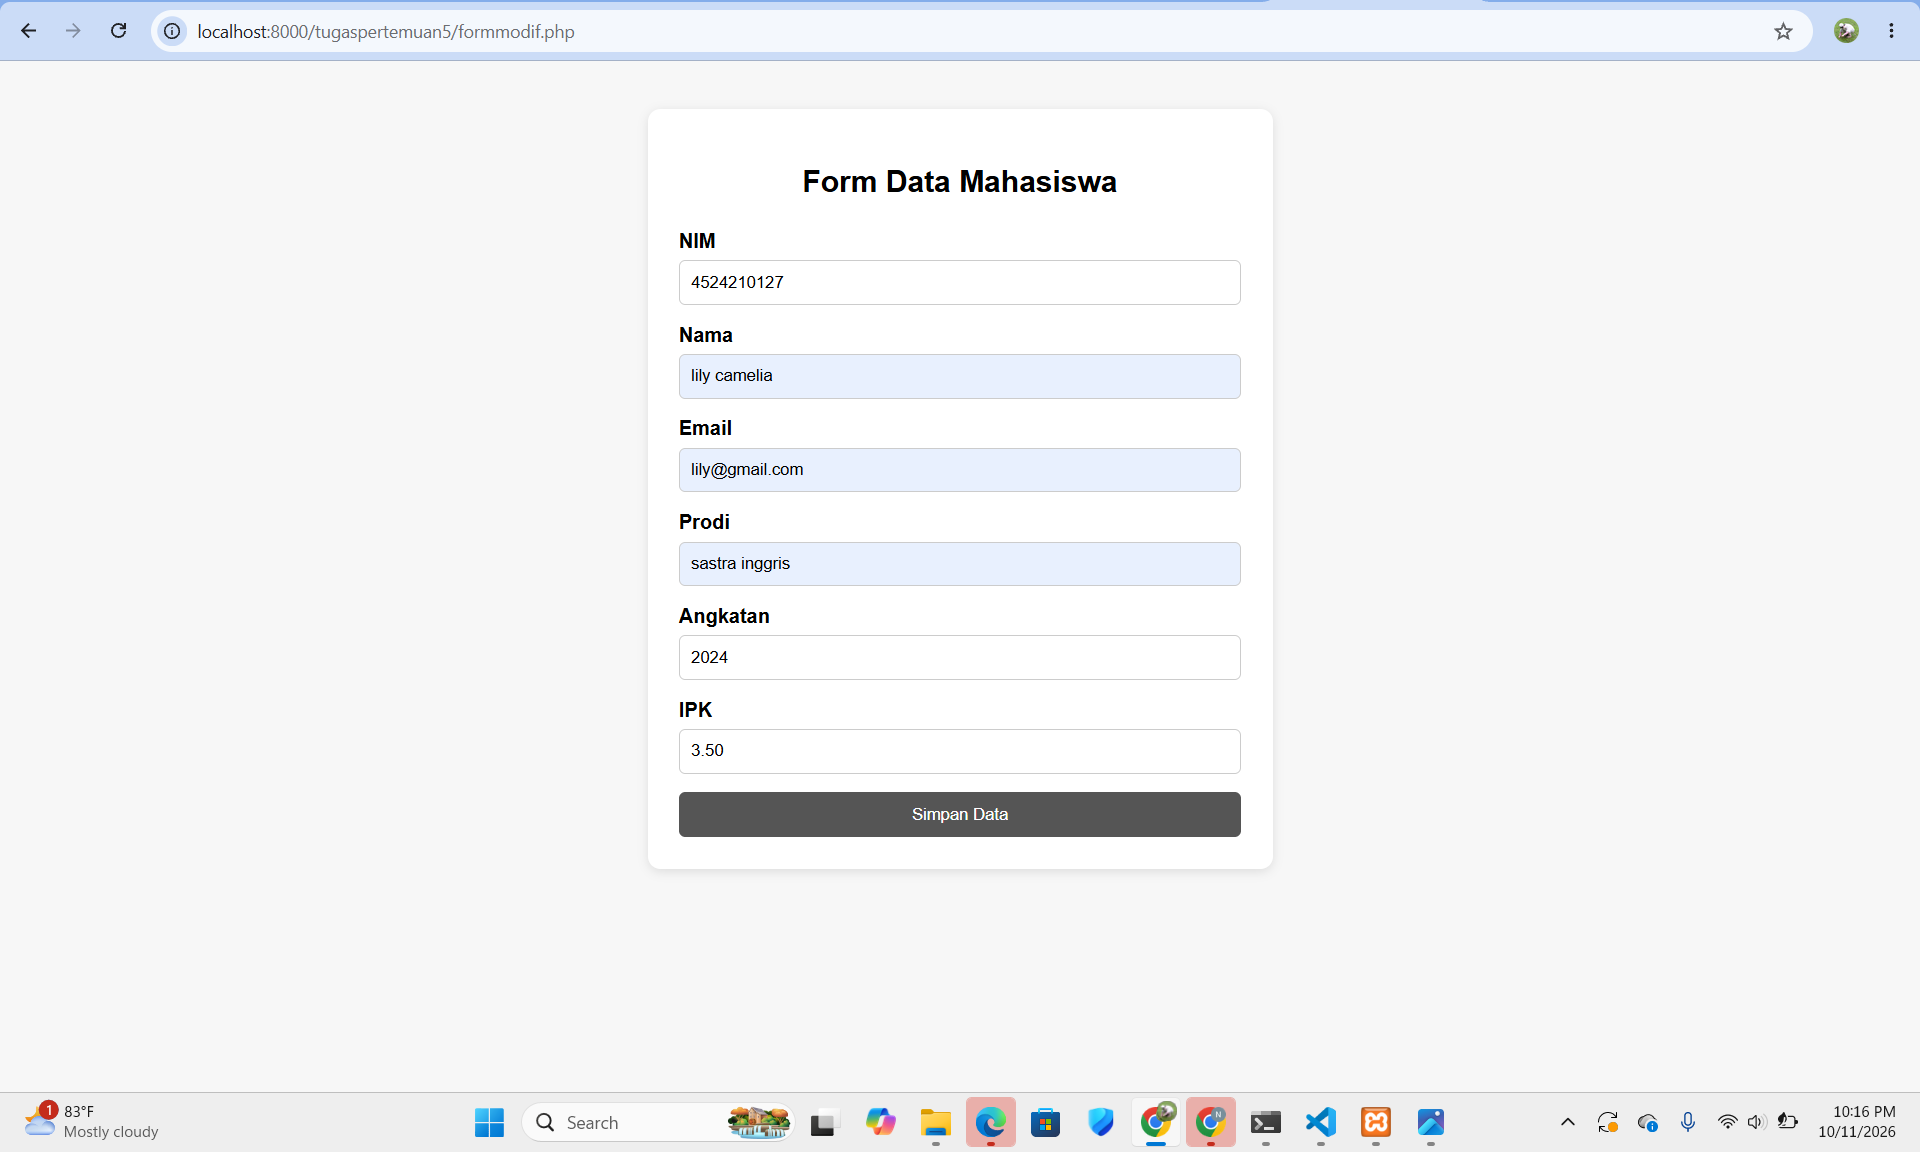
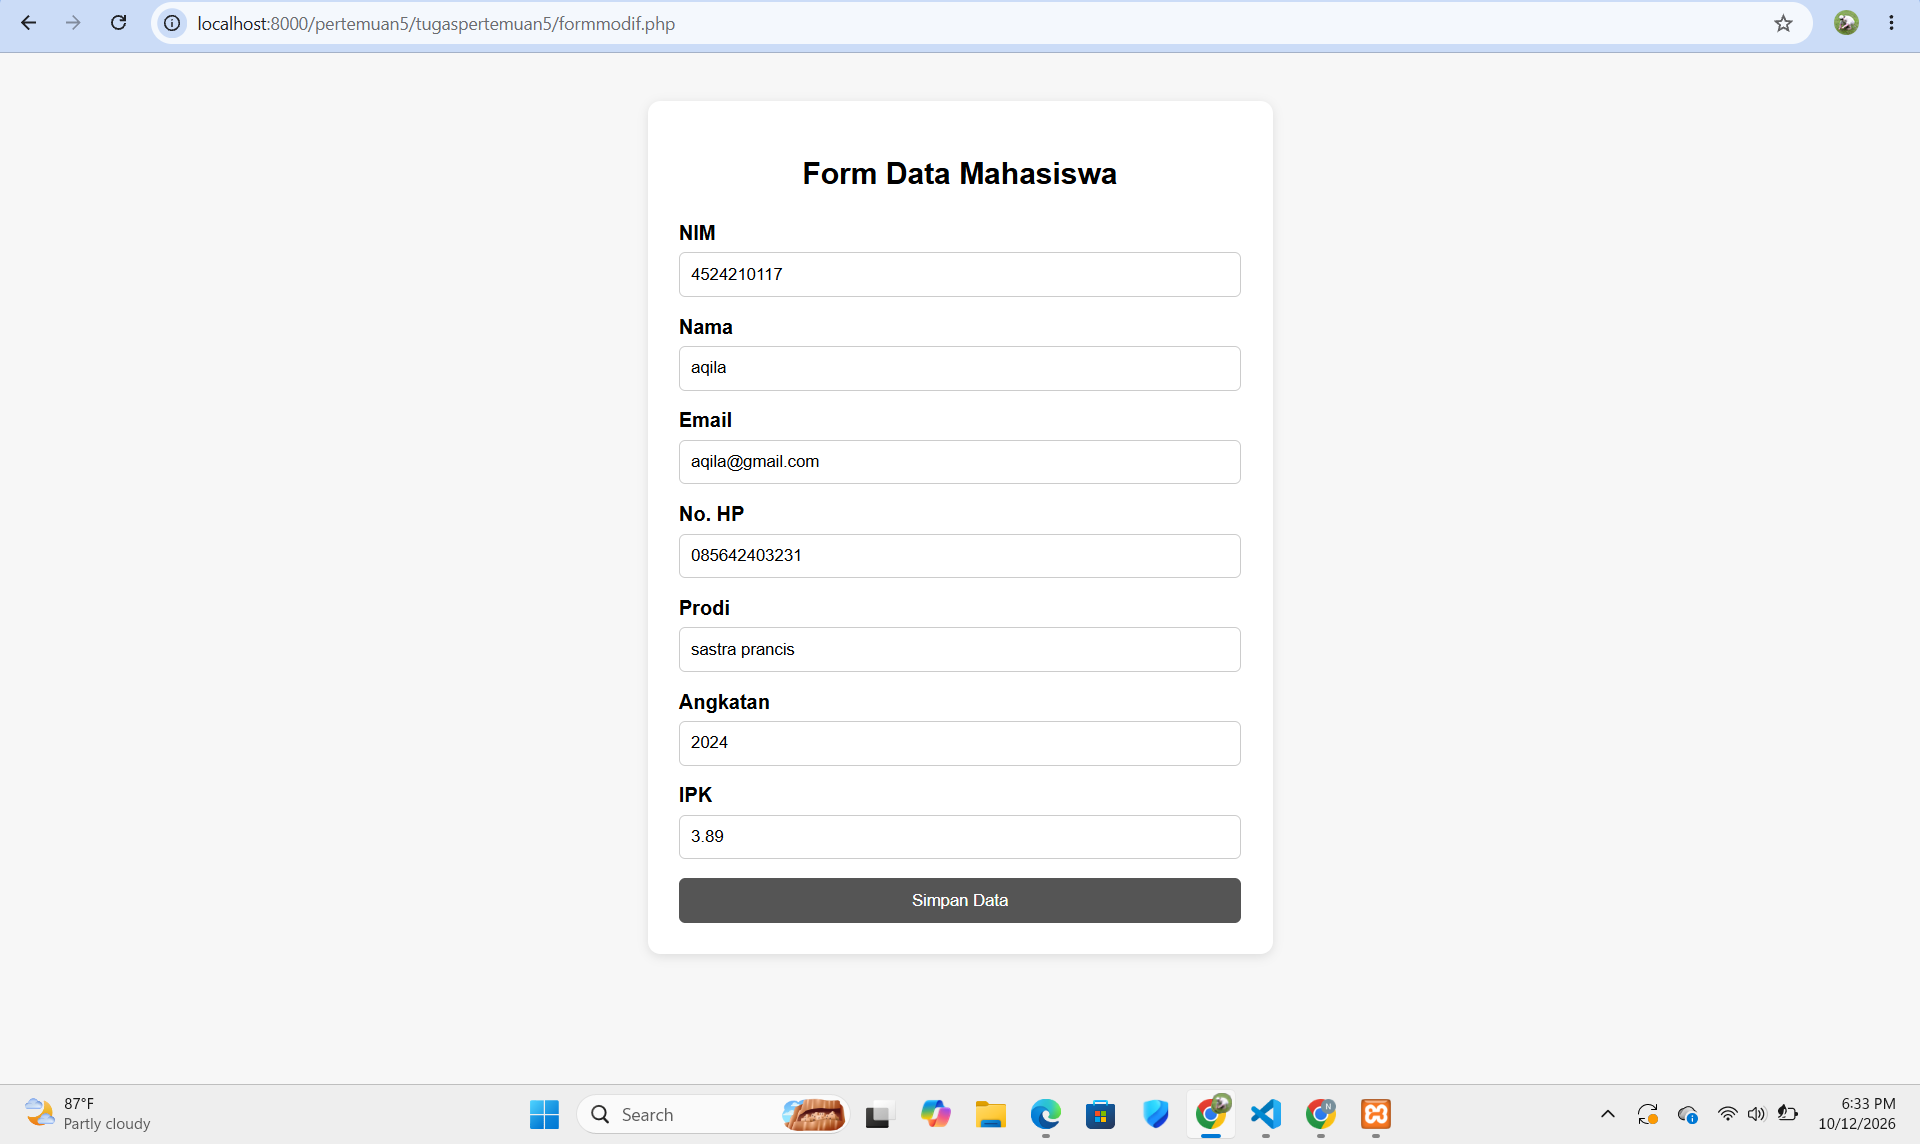
tugas 5 pertemuan 5

diff --git a/pertemuan5/tugaspertemuan5/simpanmodif.php b/pertemuan5/tugaspertemuan5/simpanmodif.php
@@ -1,0 +1,43 @@
+<?php
+
+include "../koneksi.php";
+
+$nim = $_POST['nim'];
+$nama = $_POST['nama'];
+$email = $_POST['email'];
+$no_hp = $_POST['no_hp'];
+$prodi = $_POST['prodi'];
+$angkatan = $_POST['angkatan'];
+$ipk = $_POST['ipk'];
+
+// Validasi IPK
+if ($ipk < 0 || $ipk > 4) {
+    echo "<script>
+            alert('IPK harus berada di antara 0 sampai 4');
+            window.history.back();
+          </script>";
+    exit;
+}
+
+// Menyimpan data ke database
+$query = mysqli_query(
+    $koneksi,
+    "INSERT INTO mahasiswa
+    (nim, nama, email, no_hp, prodi, angkatan, ipk)
+    VALUES
+    ('$nim', '$nama', '$email', '$no_hp', '$prodi', '$angkatan', '$ipk')"
+);
+
+if ($query) {
+    echo "<script>
+            alert('Data mahasiswa berhasil disimpan');
+            window.location.href = 'formmodif.php';
+          </script>";
+} else {
+    echo "<script>
+            alert('Data gagal disimpan');
+            window.history.back();
+          </script>";
+}
+
+?>

diff --git a/pertemuan5/tugaspertemuan5/formmodif.php b/pertemuan5/tugaspertemuan5/formmodif.php
@@ -61,7 +61,7 @@
 
     <h2>Form Data Mahasiswa</h2>
 
-    <form action="../simpan.php" method="post">
+    <form action="simpanmodif.php" method="post">
 
         <label>NIM</label>
         <input type="text" name="nim" required>
@@ -71,6 +71,9 @@
 
         <label>Email</label>
         <input type="email" name="email" required>
+
+        <label>No. HP</label>
+        <input type="text" name="no_hp" minlength="10" maxlength="15" required>
 
         <label>Prodi</label>
         <input type="text" name="prodi" required>

diff --git a/pertemuan5/tugaspertemuan5/README.md b/pertemuan5/tugaspertemuan5/README.md
@@ -5,7 +5,7 @@
 
 ## 1. Modifikasi Program
 
-Pada tugas ini dilakukan modifikasi pada program **form data mahasiswa** dan **tampilan data mahasiswa**. File program asli tetap disimpan di folder `pertemuan5`, sedangkan file hasil modifikasi disimpan di folder `tugaspertemuan5`.
+Pada tugas ini dilakukan modifikasi pada program **form data mahasiswa** dan proses **penyimpanan data mahasiswa**. File program asli tetap disimpan di folder `pertemuan5`, sedangkan file hasil modifikasi disimpan di folder `tugaspertemuan5`.
 
 ### Modifikasi 1 - Form Data Mahasiswa
 
@@ -14,79 +14,108 @@ File `formmodif.php` dibuat dari file `form.php` dengan beberapa perubahan pada 
 Perubahan yang dilakukan:
 
 - Menambahkan tampilan form yang lebih rapi menggunakan CSS sederhana.
+- Menambahkan input **No. HP**.
+- Menambahkan batas input **No. HP minimal 10 dan maksimal 15 karakter**.
 - Menambahkan batas input **angkatan dari 2000 sampai 2100**.
 - Menambahkan batas input **IPK dari 0 sampai 4**.
+- Menggunakan `step="0.01"` pada input IPK agar dapat menerima angka desimal.
 - Mengubah tulisan tombol menjadi **"Simpan Data"**.
-- Mengarahkan form ke file `simpan.php` menggunakan `../simpan.php` karena file modifikasi berada di dalam folder `tugaspertemuan5`.
+- Mengarahkan form ke file `simpanmodif.php` untuk memproses data yang dikirim.
 
-### Modifikasi 2 - Menampilkan Data Mahasiswa
+### Modifikasi 2 - Proses Penyimpanan Data
 
-File `datamodif.php` dibuat dari file `data.php`.
+File `simpanmodif.php` dibuat sebagai modifikasi dari proses penyimpanan pada file `simpan.php`.
 
 Perubahan yang dilakukan:
 
-- Sebelumnya data yang ditampilkan hanya **NIM dan nama**.
-- Setelah dimodifikasi, data yang ditampilkan menjadi **NIM, nama, email, prodi, angkatan, dan IPK**.
-- Data ditampilkan dengan format yang lebih lengkap agar lebih mudah dibaca.
+- Menambahkan proses untuk menerima data **No. HP**.
+- Menambahkan validasi IPK agar nilainya hanya berada pada rentang **0 sampai 4**.
+- Menyesuaikan query `INSERT` agar data No. HP ikut disimpan ke database.
+- Menambahkan pesan berhasil atau gagal setelah proses penyimpanan.
+- Setelah data berhasil disimpan, halaman akan kembali ke `formmodif.php`.
 
 ---
 
 ## 2. Penjelasan 5 Bagian Kode Penting
 
-### 1. Koneksi Database
+### 1. Form Mengirim Data ke `simpanmodif.php`
 
-```php
-include "../koneksi.php";
+```html
+<form action="simpanmodif.php" method="post">
 ```
 
-Kode tersebut digunakan untuk menghubungkan `datamodif.php` dengan file `koneksi.php`.
+Kode tersebut digunakan untuk mengirim data yang diisi pada form ke file `simpanmodif.php`.
 
-Tanda `../` digunakan karena file `datamodif.php` berada satu folder di dalam folder `pertemuan5`, sehingga perlu naik satu tingkat untuk mengakses `koneksi.php`.
-
-### 2. Form Mengirim Data
-
-```php
-<form action="../simpan.php" method="post">
-```
-
-Kode tersebut digunakan untuk mengirim data yang diisi pada form ke file `simpan.php`.
-
-- `action="../simpan.php"` menentukan file yang akan menerima data.
+- `action="simpanmodif.php"` menentukan file yang akan menerima data.
 - `method="post"` digunakan untuk mengirim data menggunakan metode POST.
 
-### 3. Validasi Angkatan
+Karena kedua file berada dalam folder `tugaspertemuan5`, tidak perlu menggunakan `../` pada bagian `action`.
 
-```php
-<input type="number" name="angkatan" min="2000" max="2100" required>
+### 2. Input No. HP
+
+```html
+<label>No. HP</label>
+<input type="text" name="no_hp" minlength="10" maxlength="15" required>
 ```
 
-Kode tersebut digunakan untuk membatasi input angkatan agar berada pada rentang **2000 sampai 2100**.
+Kode tersebut digunakan untuk menambahkan data nomor HP pada form.
 
-Atribut `required` digunakan agar input angkatan tidak boleh dikosongkan.
+- `name="no_hp"` digunakan sebagai nama data yang akan dikirim ke PHP.
+- `minlength="10"` menentukan minimal jumlah karakter.
+- `maxlength="15"` menentukan maksimal jumlah karakter.
+- `required` membuat input tidak boleh dikosongkan.
 
-### 4. Validasi IPK
+### 3. Validasi IPK
 
-```php
+```html
 <input type="number" name="ipk" min="0" max="4" step="0.01" required>
 ```
 
 Kode tersebut digunakan untuk membatasi nilai IPK dari **0 sampai 4**.
 
-Atribut `step="0.01"` memungkinkan pengguna memasukkan nilai IPK dengan angka desimal, misalnya `3.75`.
+Atribut `step="0.01"` memungkinkan pengguna memasukkan nilai IPK dalam bentuk desimal, misalnya `3.75`.
 
-### 5. Menampilkan Data dari Database
+### 4. Validasi IPK pada `simpanmodif.php`
 
 ```php
-while ($data = mysqli_fetch_assoc($query)) {
-    echo "NIM: " . $data['nim'];
-    echo "<br>";
-    echo "Nama: " . $data['nama'];
+if ($ipk < 0 || $ipk > 4) {
+    echo "<script>
+            alert('IPK harus berada di antara 0 sampai 4');
+            window.history.back();
+          </script>";
+    exit;
 }
 ```
 
-Kode tersebut digunakan untuk mengambil data mahasiswa dari hasil query database dan menampilkannya satu per satu.
+Kode tersebut digunakan untuk melakukan pengecekan kembali terhadap nilai IPK sebelum data disimpan ke database.
 
-`mysqli_fetch_assoc()` mengambil setiap baris data dalam bentuk array dengan nama kolom sebagai indeksnya. Perulangan `while` akan terus berjalan selama masih terdapat data yang dapat ditampilkan.
+Jika IPK kurang dari 0 atau lebih dari 4, proses penyimpanan dihentikan dan pengguna mendapatkan pesan bahwa IPK harus berada di antara 0 sampai 4.
+
+### 5. Menyimpan Data ke Database
+
+```php
+$query = mysqli_query(
+    $koneksi,
+    "INSERT INTO mahasiswa
+    (nim, nama, email, no_hp, prodi, angkatan, ipk)
+    VALUES
+    ('$nim', '$nama', '$email', '$no_hp', '$prodi', '$angkatan', '$ipk')"
+);
+```
+
+Kode tersebut digunakan untuk menyimpan data mahasiswa ke tabel `mahasiswa`.
+
+Data yang disimpan meliputi:
+
+- NIM
+- Nama
+- Email
+- No. HP
+- Prodi
+- Angkatan
+- IPK
+
+`mysqli_query()` digunakan untuk menjalankan perintah SQL pada database.
 
 ---
 
@@ -96,9 +125,9 @@ Kode tersebut digunakan untuk mengambil data mahasiswa dari hasil query database
 
 ![Form Sebelum Modifikasi](screenshot/form.png)
 
-### Data Sebelum Modifikasi
+### Proses Penyimpanan Sebelum Modifikasi
 
-![Data Sebelum Modifikasi](screenshot/data.png)
+![Proses Penyimpanan Sebelum Modifikasi](screenshot/simpan.png)
 
 ---
 
@@ -108,9 +137,9 @@ Kode tersebut digunakan untuk mengambil data mahasiswa dari hasil query database
 
 ![Form Setelah Modifikasi](screenshot/formmodif.png)
 
-### Data Setelah Modifikasi
+### Proses Penyimpanan Setelah Modifikasi
 
-![Data Setelah Modifikasi](screenshot/datamodif.png)
+![Proses Penyimpanan Sebelum Modifikasi](screenshot/simpanmodif.png)
 
 > **Catatan:** Nama dan lokasi file screenshot dapat disesuaikan dengan file yang terdapat di repository.
 
@@ -126,9 +155,9 @@ Failed to open stream: No such file or directory
 
 ### Penyebab
 
-Error tersebut terjadi karena file `datamodif.php` berada di dalam folder `tugaspertemuan5`, sedangkan file `koneksi.php` berada di folder `pertemuan5`.
+Error tersebut terjadi karena file `formmodif.php` dan `simpanmodif.php` berada di dalam folder `tugaspertemuan5`, sedangkan file `koneksi.php` berada di folder `pertemuan5`.
 
-Ketika menggunakan:
+Ketika file `simpanmodif.php` menggunakan:
 
 ```php
 include "koneksi.php";
@@ -138,25 +167,18 @@ PHP akan mencari file `koneksi.php` di dalam folder `tugaspertemuan5`, sehingga 
 
 ### Perbaikan
 
-Kode tersebut diubah dari:
-
-```php
-include "koneksi.php";
-```
-
-menjadi:
+Kode tersebut diubah menjadi:
 
 ```php
 include "../koneksi.php";
 ```
 
-Tanda `../` digunakan untuk naik satu folder sehingga PHP dapat menemukan file `koneksi.php` yang berada di folder sebelumnya.
+Tanda `../` digunakan untuk naik satu folder sehingga PHP dapat menemukan file `koneksi.php` yang berada di folder `pertemuan5`.
 
 ---
 
+## 6. Kesimpulan
 
-## 8. Kesimpulan
+Pada tugas ini dilakukan modifikasi terhadap form dan proses penyimpanan data mahasiswa. Modifikasi meliputi perubahan tampilan form, penambahan input No. HP, validasi angkatan dan IPK, serta penambahan validasi IPK pada proses penyimpanan.
 
-Pada tugas ini dilakukan modifikasi terhadap program form dan tampilan data mahasiswa. Modifikasi meliputi perubahan tampilan form, penambahan validasi input angkatan dan IPK, serta penambahan data yang ditampilkan pada halaman data mahasiswa.
-
-Selain itu, tugas ini juga membantu memahami penggunaan `include`, metode `POST`, validasi input HTML, pengambilan data dari database menggunakan `mysqli_fetch_assoc()`, serta penggunaan path relatif seperti `../` pada PHP.
+Selain itu, tugas ini membantu memahami penggunaan `include`, metode `POST`, validasi input HTML, validasi data menggunakan PHP, penggunaan `mysqli_query()` untuk menyimpan data ke database, serta penggunaan path relatif seperti `../` pada PHP.
